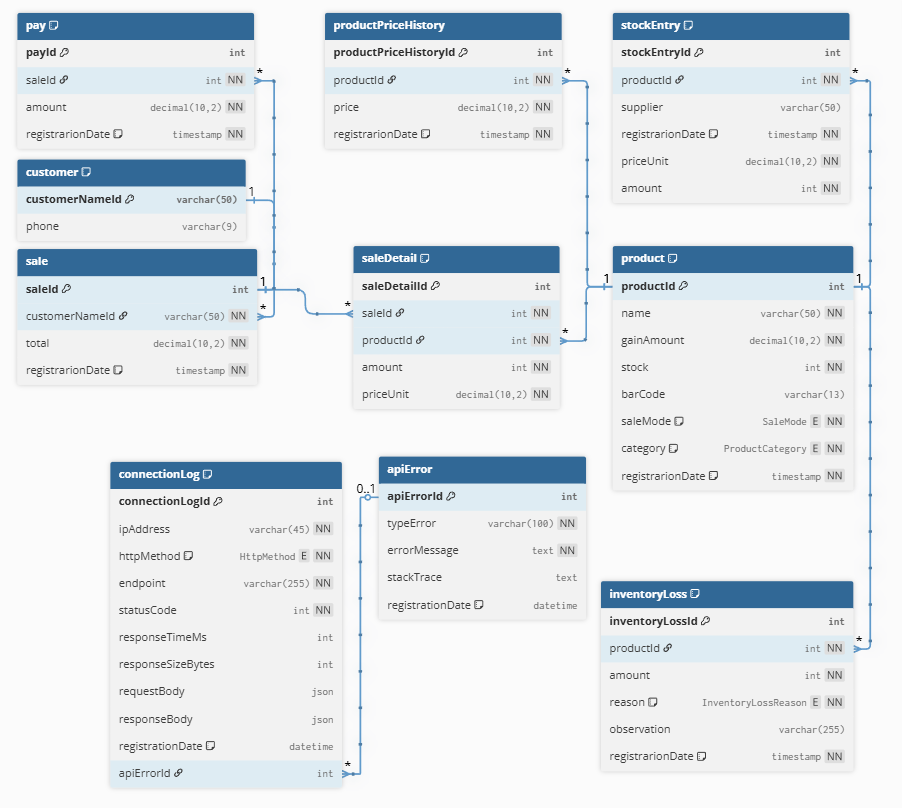
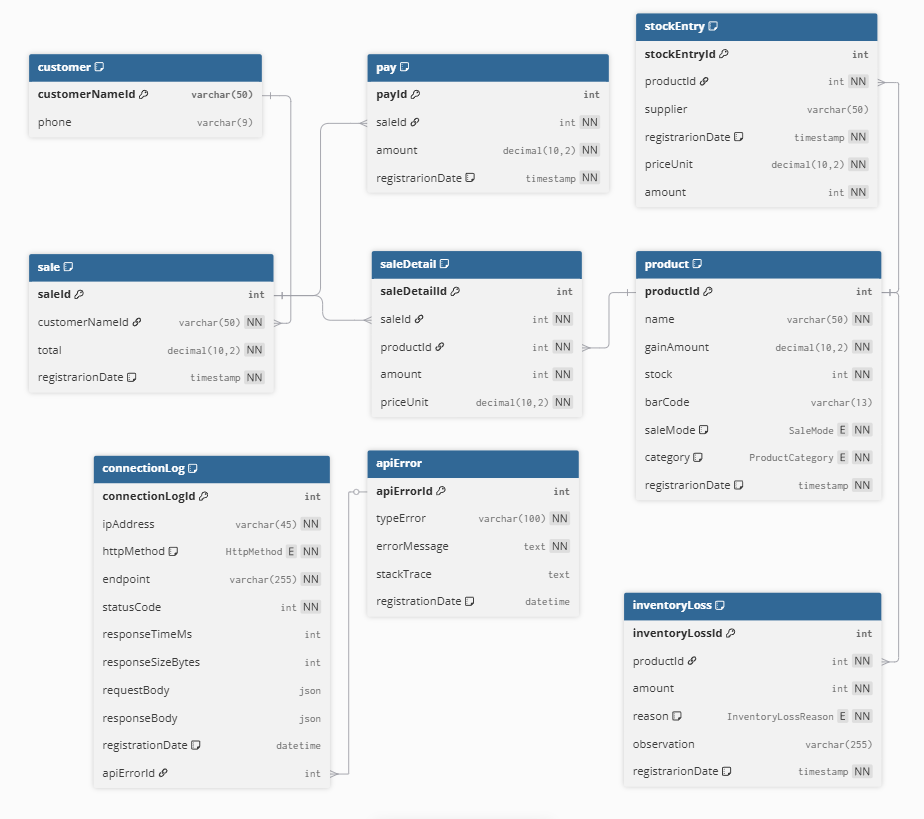
update data base

diff --git a/dataBase/dbml.md b/dataBase/dbml.md
@@ -62,13 +62,6 @@ Table product {
   Note: 'CHECK (gainAmount > 0) and CHAR_LENGTH(barCode) = 13'
 }
 
-Table productPriceHistory {
-  productPriceHistoryId int [pk, increment]
-  productId int [not null, ref: > product.productId]
-  price decimal(10,2) [not null]
-  registrarionDate timestamp [default: `CURRENT_TIMESTAMP`, not null]
-}
-
 Table stockEntry {
   stockEntryId int [pk, increment]
   productId int [not null, ref: > product.productId]
@@ -85,6 +78,8 @@ Table sale {
   customerNameId varchar(50) [not null, ref: > customer.customerNameId]
   total decimal(10,2) [not null]
   registrarionDate timestamp [default: `CURRENT_TIMESTAMP`, not null]
+
+  Note: 'CHECK (total >= 0) '
 }
 
 Table pay {
@@ -103,7 +98,7 @@ Table saleDetail {
   amount int [not null]
   priceUnit decimal(10,2) [not null]
 
-  Note: 'CHECK (amount > 0)'
+  Note: 'CHECK (amount > 0) AND CHECK (priceUnit > 0)'
 }
 
 Table inventoryLoss {
